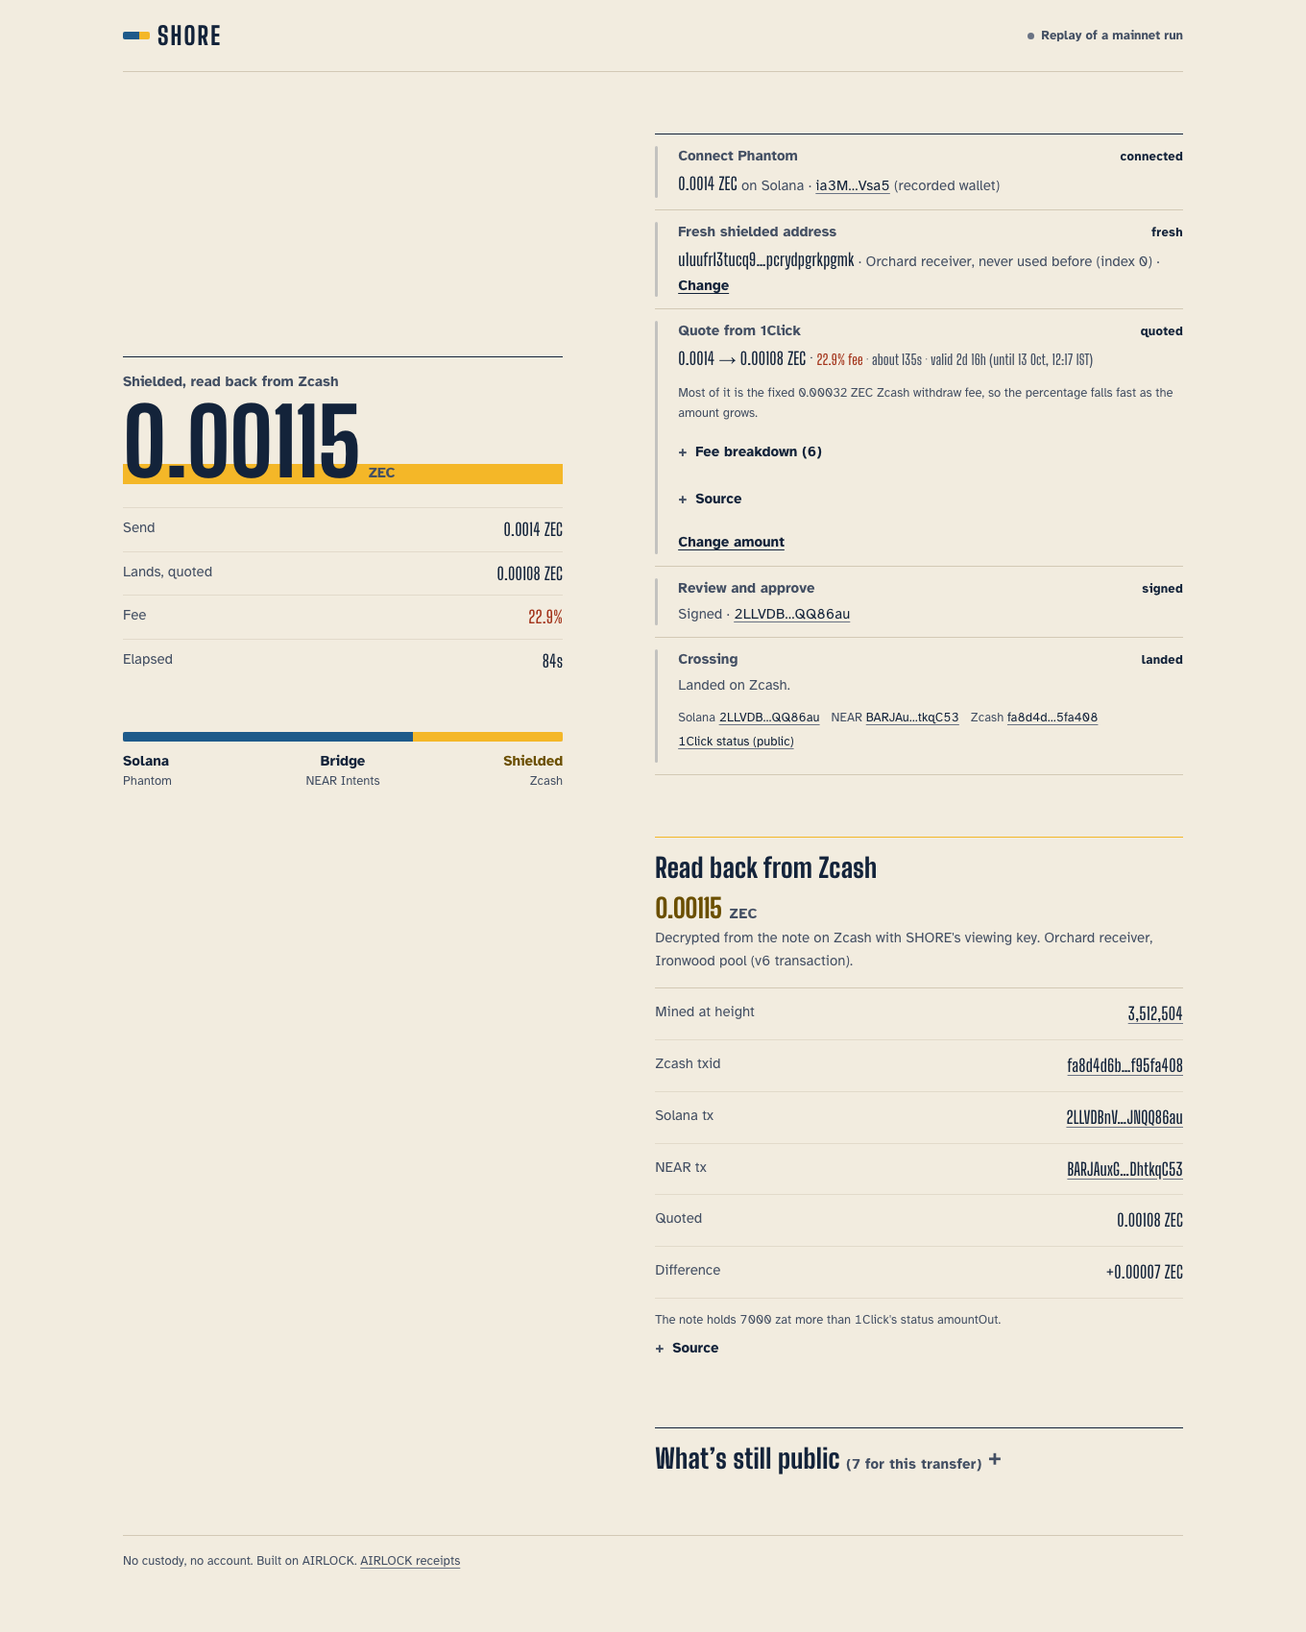
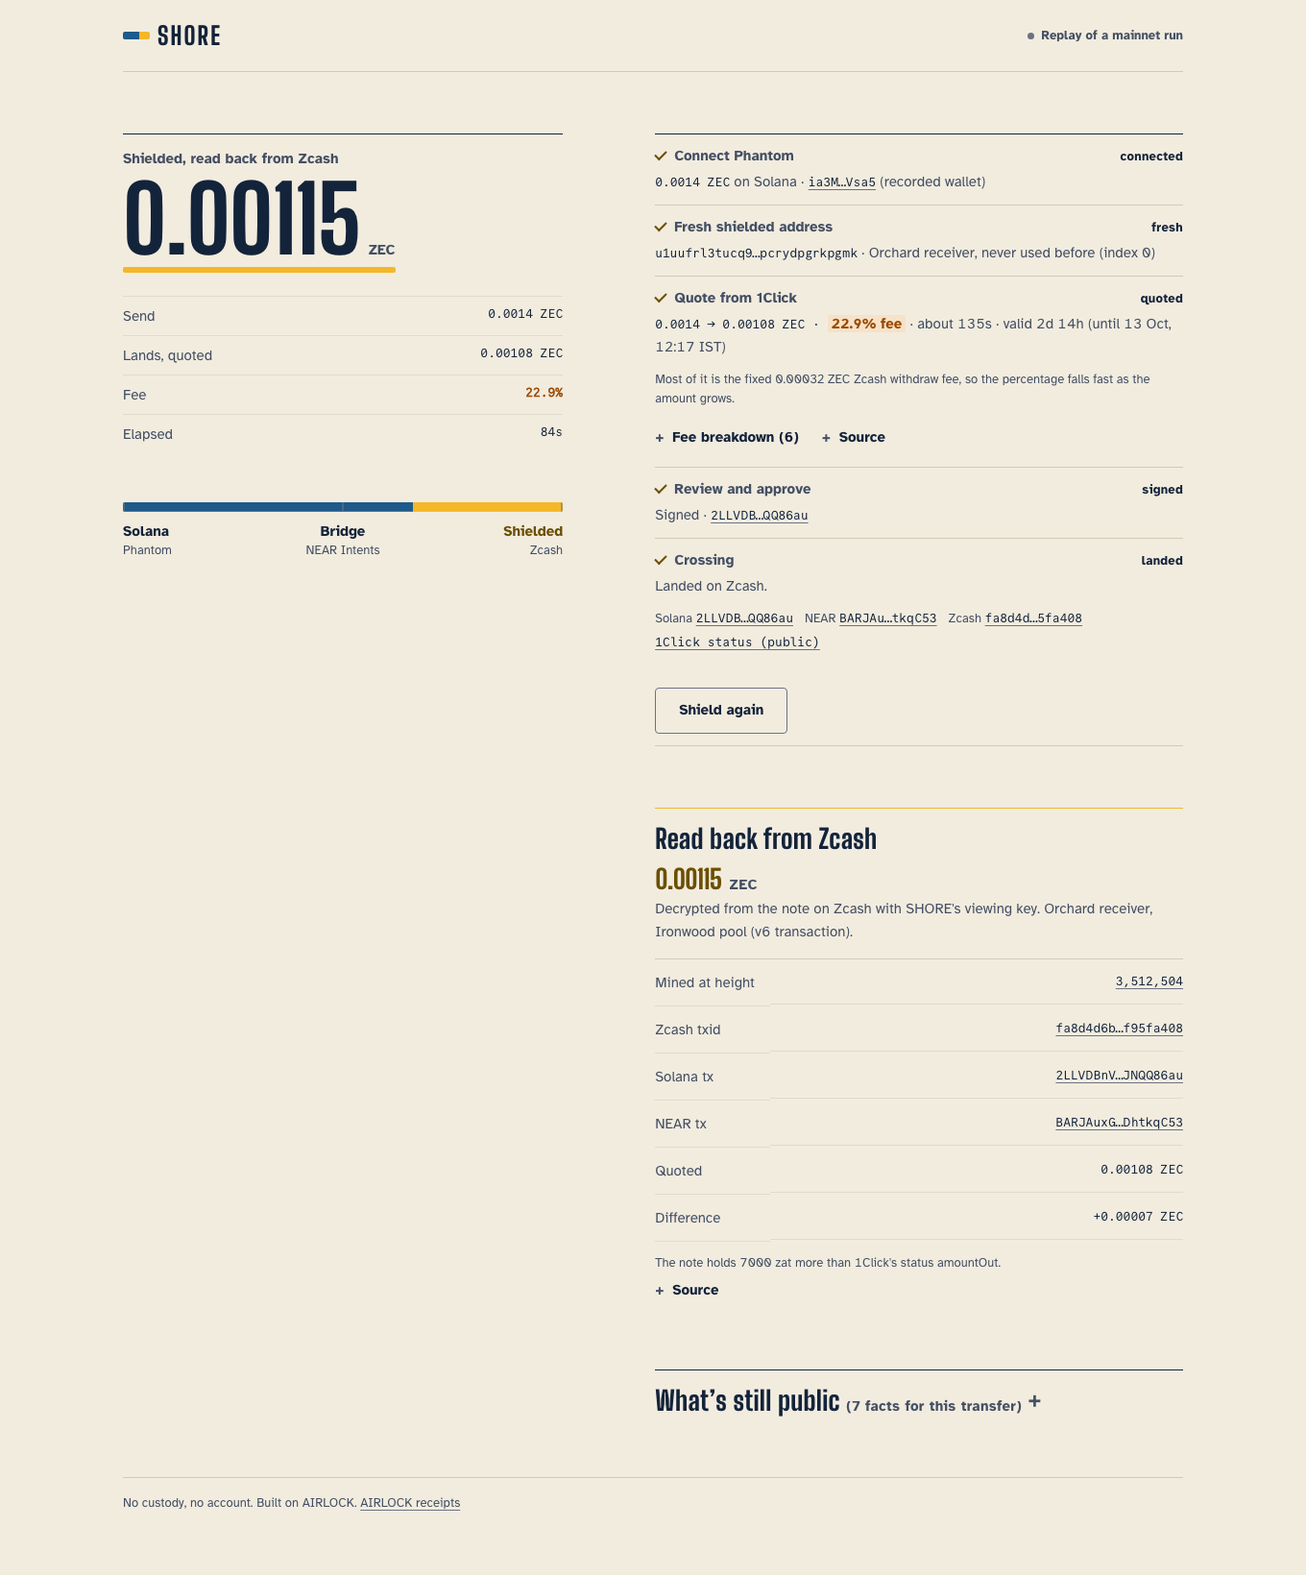
design round 4 (not used: UI frozen at r3 by kamal); kept for reference

diff --git a/web/shore/shore.css b/web/shore/shore.css
@@ -6,12 +6,14 @@
    gold where the ZEC is shielded, and the wordmark carries the same band. One radius: 4px. */
 @font-face{font-family:"Big Shoulders Display";font-weight:700;font-display:swap;src:url("../fonts/big-shoulders-display-latin-600-normal.woff2") format("woff2")}
 @font-face{font-family:"Big Shoulders Display";font-weight:800;font-display:swap;src:url("../fonts/big-shoulders-display-latin-800-normal.woff2") format("woff2")}
+@font-face{font-family:"Commit Mono";font-weight:400;font-display:swap;src:url("../fonts/commit-mono-400.woff2") format("woff2")}
 @font-face{font-family:"Atkinson Hyperlegible";font-weight:400;font-display:swap;src:url("../fonts/atkinson-hyperlegible-latin-400-normal.woff2") format("woff2")}
 @font-face{font-family:"Atkinson Hyperlegible";font-weight:700;font-display:swap;src:url("../fonts/atkinson-hyperlegible-latin-700-normal.woff2") format("woff2")}
 
 :root{
   --paper:#F2ECDF; --white:#FBF8F1; --ink:#13233A; --ink-2:#434F63; --ink-3:#6A7384; --rule:#D3C9B5; --rule-2:#E2DACA;
-  --sea:#1E5A8A; --gold:#F4B728; --gold-ink:#6B4F00; --warn:#A3341B;
+  --sea:#1E5A8A; --gold:#F4B728; --gold-ink:#6B4F00; --warn:#A3341B; --cost:#9A4A00;
+  --fig:"Commit Mono",ui-monospace,Menlo,monospace;
   --tide:var(--gold-ink); --tide-ink:var(--ink); --tide-wash:#F7E6B8;
   --serif:"Big Shoulders Display","Arial Narrow",sans-serif;
   --sans:"Atkinson Hyperlegible",ui-sans-serif,system-ui,sans-serif;
@@ -66,7 +68,8 @@ a:hover{text-decoration-color:var(--ink)}
 .lk{font:700 var(--t-s)/1.3 var(--sans);color:var(--ink-2)}
 .hero{font:800 96px/.92 var(--serif);letter-spacing:-.01em;margin-top:var(--s2);font-variant-numeric:tabular-nums lining-nums}
 .hero small{font:700 var(--t-s)/1 var(--sans);letter-spacing:0;margin-left:var(--s2);color:var(--ink-2)}
-.hero[data-tone="shielded"]{color:var(--ink);box-shadow:inset 0 -.22em 0 var(--gold)}
+.hero[data-tone="shielded"]{color:var(--ink)}
+.hero[data-tone="shielded"]::after{content:"";display:block;height:6px;margin-top:6px;border-radius:2px;background:var(--gold)}
 .lrows{margin-top:var(--s5);display:grid;grid-template-columns:auto 1fr;font-size:var(--t-s)}
 .lrows dt,.lrows dd{padding:var(--s2) 0;border-top:1px solid var(--rule-2)}
 .lrows dt{color:var(--ink-2)}
@@ -78,19 +81,18 @@ a:hover{text-decoration-color:var(--ink)}
 main{margin-top:var(--s7);display:flex;flex-direction:column;gap:var(--s8);min-width:0}
 main:focus{outline:none}
 .steps{border-top:1px solid var(--ink)}
-.step{position:relative;padding:var(--s5) 0 var(--s5) var(--s5);border-bottom:1px solid var(--rule)}
-.step::before{content:"";position:absolute;left:0;top:var(--s5);bottom:var(--s5);width:3px;border-radius:2px;background:transparent}
-.step[data-state="active"]::before{background:var(--sea)}
-.step[data-state="done"]::before{background:var(--ink-3);opacity:.35}
+.step{position:relative;padding:var(--s5) 0;border-bottom:1px solid var(--rule)}
+.step::before{content:none}
+.step[data-state="active"] h2{font-weight:700;color:var(--ink)}
+.step[data-state="done"] h2::before{content:"";display:inline-block;width:12px;height:7px;margin:0 var(--s2) 3px 0;border-left:2px solid var(--gold-ink);border-bottom:2px solid var(--gold-ink);transform:rotate(-45deg)}
 .step header{display:flex;align-items:baseline;justify-content:space-between;gap:var(--s3);min-height:28px}
 .step h2{font:700 var(--t-m)/1.4 var(--sans)}
 .hint{margin-top:var(--s1);font-size:var(--t-s);color:var(--ink-2);max-width:52ch}
-.step[data-state="locked"] h2{color:var(--ink-2)}
-.step{transition:padding .2s var(--ease)}
+.step[data-state="locked"] h2{color:var(--ink-2);font-weight:400}
+
 .step[data-state="locked"] .body{display:none}
 .step[data-state="done"] .hint{display:none}
 .step[data-state="done"]{padding-block:var(--s3)}
-.step[data-state="done"]::before{top:var(--s3);bottom:var(--s3)}
 .step[data-state="done"] h2{font-size:var(--t-s);color:var(--ink-2)}
 .step[data-state="done"] header{min-height:0}
 .step[data-state="done"] .body{margin-top:var(--s1)}
@@ -221,7 +223,7 @@ label.f{display:block}
   .crossing[data-live] .strip-now{display:flex;align-items:baseline;justify-content:space-between;gap:var(--s3);margin-top:var(--s2)}
   .strip-now span{font-size:var(--t-xs);color:var(--ink-2)}
   .strip-now b{font:800 var(--t-l)/1 var(--serif);font-variant-numeric:tabular-nums}
-  .strip-now[data-tone="shielded"] b{box-shadow:inset 0 -.25em 0 var(--gold)}
+  .strip-now[data-tone="shielded"] b{color:var(--gold-ink)}
   main{order:3;margin-top:var(--s5)}
   .foot{order:5}
   .mode{white-space:nowrap;font-size:12px}
@@ -231,8 +233,31 @@ label.f{display:block}
 }
 @media (max-width:959px){.steps{border-top:0}}
 
-/* figures: the signage face, never the reading face's dotted zero */
-.lrows dd,.receipt .val,.kv dd,.qmini,.clock,.qsec{font-family:var(--serif);font-weight:700;letter-spacing:.01em}
-.lrows dd,.kv dd,.receipt .val,.qmini{font-size:18px}
+/* figures: one zero style. Small amounts, addresses and hashes in Commit Mono (plain zero, tabular);
+   the condensed signage face only for the big display numbers (hero, phone strip, read-back, phone quote pair). */
+.lrows dd,.receipt .val,.kv dd,.qmini,.linksrow a,.receipt a{font-family:var(--fig);font-weight:400;font-size:var(--t-xs);letter-spacing:0}
+.qsec{font-family:var(--sans)}
+.clock{font-family:var(--fig);font-weight:400}
 @media (max-width:959px){.crossing[data-live]{margin-top:0}}
-.hero[data-tone="shielded"]{display:table;padding-right:var(--s1)}
+.hero[data-tone="shielded"]{display:table}
+
+.qctl{display:flex;flex-wrap:wrap;align-items:baseline;gap:0 var(--s5)}
+.qctl details[open]{flex-basis:100%}
+.qctl .linkbtn{padding:var(--s2) 0}
+html[data-signed] .chg{display:none}
+.again{margin-top:var(--s3)}
+.cost{color:var(--cost)!important;font-weight:700}
+.qsec .cost{background:#F6E2C8;padding:0 var(--s1);border-radius:2px}
+/* stop marks on the band: Solana, Bridge, Shielded */
+.tide::after{content:"";position:absolute;inset:0;background:linear-gradient(90deg,var(--ink-3) 0 2px,transparent 2px calc(50% - 1px),var(--ink-3) calc(50% - 1px) calc(50% + 1px),transparent calc(50% + 1px) calc(100% - 2px),var(--ink-3) calc(100% - 2px));opacity:.55;pointer-events:none}
+@media (max-width:959px){
+  .readback .amount{display:none}
+  .crossing{padding-block:var(--s2) var(--s1)}
+  .crossing[data-live] .node{padding-top:var(--s4)}
+  .crossing[data-live] .nl{font-size:var(--t-xs)}
+  .crossing[data-live] .strip-now{margin-top:0}
+  .strip-now b{font-size:22px}
+}
+@media (max-width:959px){.crossing[data-live] .path{display:none}.crossing[data-live] .tide{position:relative;left:auto;right:auto;top:auto;height:8px}.crossing[data-live] .strip-now{margin-top:var(--s2)}}
+.kv dt,.kv dd{display:flex;align-items:center;min-height:44px}
+.kv dd{justify-content:flex-end}

diff --git a/web/shore/shore.js b/web/shore/shore.js
@@ -64,7 +64,7 @@ function reopen(id, render) {
   if (id === "s-address") { delete L.send; delete L.lands; delete L.fee; ledger(null, null, null, { hero: ["Balance on Solana", [zec(S.balance), h("small", {}, "ZEC")]] }); }
   setStep(id, "active"); render();
 }
-const change = (id, render) => [" · ", h("button", { class: "linkbtn", type: "button", onclick: () => reopen(id, render) }, "Change")];
+const change = (id, render) => [h("span", { class: "chg" }, " · ", h("button", { class: "linkbtn", type: "button", onclick: () => reopen(id, render) }, "Change"))];
 const IST = (iso) => new Date(iso).toLocaleString("en-GB", { timeZone: "Asia/Kolkata", day: "numeric", month: "short", hour: "2-digit", minute: "2-digit", hour12: false }) + " IST";
 function countdown(iso) {
   const ms = new Date(iso) - Date.now();
@@ -193,16 +193,16 @@ function renderQuote(out) {
   put(step, h("div", { "data-testid": "quote", class: "qt" },
     h("p", { class: "qpair" }, h("span", {}, h("small", {}, "You send"), `${zec(q.amountIn)} ZEC`), h("i", { "aria-hidden": "true" }, "→"),
       h("span", {}, h("small", {}, "Lands, quoted"), `${zec(q.amountOut)} ZEC`)),
-    h("p", { class: "qsec" }, h("span", { class: "qmini" }, `${zec(q.amountIn)} → ${zec(q.amountOut)} ZEC · `), h("span", { class: bps > 1000 ? "warn" : "" }, `${pct}% fee`), ` · about ${q.timeEstimateSecs}s · `, valid),
+    h("p", { class: "qsec" }, h("span", { class: "qmini" }, `${zec(q.amountIn)} → ${zec(q.amountOut)} ZEC · `), h("span", { class: bps > 1000 ? "cost" : "" }, `${pct}% fee`), ` · about ${q.timeEstimateSecs}s · `, valid),
     bps > 1000 ? h("p", { class: "help", "data-testid": "fee-honest" }, `Most of it is the fixed ${zec(q.fees.withdrawFee)} ZEC Zcash withdraw fee, so the percentage falls fast as the amount grows.`) : null,
-    h("details", { class: "fold" }, h("summary", {}, "Fee breakdown (6)"),
+    h("div", { class: "qctl" }, h("details", { class: "fold" }, h("summary", {}, "Fee breakdown (6)"),
       kv([["Worst case after slippage", `${zec(q.minAmountOut)} ZEC`], ["Zcash withdraw fee", `${zec(q.fees.withdrawFee)} ZEC`], ["Refund fee if it fails", `${zec(q.fees.refundFee)} ZEC`],
         ["Total cost", `${pct}% of what you send`], ["1Click minimum", `${zec(q.minAmount)} ZEC`], ["Quote expires", IST(q.deadline)]])),
     MODE === "replay" ? h("details", { class: "fold" }, h("summary", {}, "Source"), h("p", { class: "help" }, "Recorded 1Click quote, correlation 9136ee09, file shore-funded-quote-v2.json.")) : null,
-    h("p", {}, h("button", { class: "linkbtn", type: "button", onclick: () => reopen("s-quote", renderQuoteForm) }, "Change amount"))));
+    h("button", { class: "linkbtn chg", type: "button", onclick: () => reopen("s-quote", renderQuoteForm) }, "Change amount"))));
   setStep("s-quote", "done", "quoted");
   ledger("send", "Send", `${zec(q.amountIn)} ZEC`);
-  ledger("fee", "Fee", h("span", { class: bps > 1000 ? "warn" : "" }, `${pct}%`));
+  ledger("fee", "Fee", h("span", { class: bps > 1000 ? "cost" : "" }, `${pct}%`));
   ledger("lands", "Lands, quoted", `${zec(q.amountOut)} ZEC`, { hero: ["Lands in the shielded pool, quoted", [zec(q.amountOut), h("small", {}, "ZEC")]], strip: ["Lands, quoted", `${zec(q.amountOut)} ZEC`] });
   setStep("s-approve", "active");
   renderApprove();
@@ -220,6 +220,7 @@ function renderApprove() {
     try {
       if (LIVE) S.sig = await sendTransfer(q);
       else { put(msg, h("p", { class: "help" }, "Approved (simulated, nothing is sent).")); await sleep(600); S.sig = (await api.loadReplay()).solana_tx; }
+      document.documentElement.dataset.signed = "";
       if (S.session.source === "own") markUsed(S.session.recipient);
       api.notifyTx(S.session.id, S.sig);
       api.startClock();
@@ -291,6 +292,7 @@ async function land() {
         ledger("elapsed", "Elapsed", clock.textContent);
         setCrossing("landed");
         put(now, "Landed on Zcash."); now.className = "receipt";
+        b.append(h("p", { class: "again" }, h("a", { class: "btn ghost", href: location.pathname + location.search }, "Shield again")));
         setStep("s-land", "done", "landed");
         readbackLoop(); exposureLoad(); return;
       }
@@ -340,13 +342,13 @@ const DEFAULT_EXPOSED = [
   ["What is private afterwards:", "spends you make later from the note. Nobody outside your wallet can see those."],
 ];
 function renderExposureDefault() {
-  put($("pub-n"), `${DEFAULT_EXPOSED.length} in general`);
+  put($("pub-n"), `${DEFAULT_EXPOSED.length} facts, before you send`);
   put($("exposed"), DEFAULT_EXPOSED.map(([b, t], i) => h("li", {}, i < 3 ? h("b", {}, b) : h("strong", {}, b), " ", t)));
 }
 async function exposureLoad() {
   try {
     const x = (S.exposure = await api.exposure(S.session.id, { sender: S.wallet.address, deposit: S.quote.depositAddress, recipient: S.session.recipient }));
-    put($("pub-n"), `${x.rows.length} for this transfer`);
+    put($("pub-n"), `${x.rows.length} facts for this transfer`);
     put($("exposed"), x.rows.map((r) => h("li", { "data-exposed": String(r.exposed), "data-who": /anyone/i.test(r.whoCanSee) ? "anyone" : /nobody/i.test(r.whoCanSee) ? "nobody" : "some" },
       r.exposed ? h("b", {}, r.what) : h("strong", {}, r.what), r.value ? h("span", { class: "help" }, /^\d+$/.test(r.value) ? `${zec(r.value)} ZEC` : short(r.value, 10)) : null,
       h("span", { class: "help" + (/anyone/i.test(r.whoCanSee) ? " warn" : "") }, `${r.exposed ? "Readable by" : "Visible to"}: ${r.whoCanSee}`))),

diff --git a/web/tests/shots.spec.js b/web/tests/shots.spec.js
@@ -13,7 +13,7 @@ test("screens", async ({ page }, info) => {
   await page.getByTestId("approve").click();
   await page.waitForTimeout(1800);
   await page.screenshot({ path: `${dir}-3-landing.png`, fullPage: true });
-  await page.getByTestId("rb-amount").waitFor({ timeout: 30000 });
+  await page.locator("#readback[data-landed]").waitFor({ timeout: 30000 });
   await page.waitForTimeout(500);
   await page.screenshot({ path: `${dir}-4-readback.png`, fullPage: true });
 });

diff --git a/docs/design/CRITIQUE-fresh-r3.md b/docs/design/CRITIQUE-fresh-r3.md
@@ -1,0 +1,86 @@
+# CRITIQUE · SHORE · round 3 ("Harbor board") · critic=fresh
+
+critic: fresh:grokbot-knowledgework (independent; builder CRITIQUE.md entries and DESIGN.md NOT read before scoring)
+date: 2026-10-10 19:32 IST
+rubric: demo-judge 10 axes, 0-10. Pass bar: average >= 8.0 AND every axis >= 7.
+evidence: docs/design/r3-*.png, plus my own Playwright run of https://design-preview.shore-zec.pages.dev/shore/ (replay) at 1440x900 and
+390x844: idle, connected, address, quote, signed, crossing, landed, full page, disclosure, a ?speed=3 crossing sampled every 6s, and the
+expanded "What's still public" at landed. Shots are in docs/design/fresh-r3-live/. Computed styles, contrast and shore.css/shore.js were checked.
+Identity measured: Big Shoulders Display (display + numerals) / Atkinson Hyperlegible (body). Paper #F2ECDF, ink #13233A, sea #1E5A8A,
+gold #F4B728, gold-ink #6B4F00, warn rgb(163,52,27). Contrast on paper: ink 13.4, sea 6.2, gold-ink 6.5, warn 5.8 (all AA).
+
+## Round-2 defect check
+| r2 defect | r3 status |
+|---|---|
+| Mobile: landed number hidden under the sticky strip | FIXED. scrollIntoView block:"center" plus #readback scroll-margin-top 140px. 0.00115 is fully visible (m-6-landed.png). |
+| Mobile strip shows the stale "84s last mainnet run" during the flow | FIXED. Strip reads "Lands, quoted 0.00108 ZEC", then "Crossing, elapsed 25s", then "Shielded 0.00115 ZEC". |
+| 0.00115 four times / 84s four times | MOSTLY FIXED. Desktop: one 96px hero; the read-back card is demoted to 28px; Elapsed appears only in the ledger. Mobile still shows 0.00115 twice in one viewport (strip 28px + read-back 64px). |
+| No owned visual signature, generic serif/sage/teal kit | FIXED. The tide band (sea leg → gold Shielded) is reused as the wordmark mark. Circled step numerals are gone. Condensed board type, cream/navy/Zcash-gold. |
+| Step swaps instant, entrance replays | PARTLY. `rise` now only runs before html.booted, and receipts `settle` in 200ms. But .step animates `padding` (shore.css:89, slop gate 14), and steps still don't collapse smoothly. |
+| No way to change address or amount | FIXED, but over-applied (see 4). |
+| "anyone" vs "nobody" rows untoned | FIXED. Red dot and red text for "Readable by: anyone"; gold for "Visible to: nobody" (d-9-public.png). |
+| Expiry in UTC | FIXED. "valid 2d 16h (until 13 Oct, 12:17 IST)". |
+| What's still public count jumps 4 → 7 | FIXED with labels: "(4 in general)" then "(7 for this transfer)". The "in general" wording is clumsy. |
+
+## Scores
+SCORES: data-as-hero 8, density 8, liveness 8, interaction 7, disclosure 8, color 8, motion 7, mobile 8, tells 7, trust 8
+AVERAGE: 7.7   MIN: 7   VERDICT: FAIL (every axis now >= 7, but the average is 0.3 short of 8.0)
+
+### 1. Data as hero: 8 (r2: 7)
+The current number is a 96px condensed numeral at every stage (quote 0.00108, crossing 25s → 84s, landed 0.00115 on a gold band). This is the right hierarchy now.
+Defects:
+- Landed ledger: the gold band sits behind the lower third of the numerals, and the "ZEC" unit is printed inside the band. The baseline and the band collide, so it reads as a highlighter stroke, not a deliberate plinth.
+- Mobile landed: 0.00115 at 28px in the strip and 64px directly below in the same viewport.
+FIX: put the band fully below the numerals (4-6px gap, unit outside or on the band's right end). On mobile, hide the read-back hero number while the strip already shows it, or vice versa.
+
+### 2. Density and hierarchy: 8 (r2: 7)
+Receipts are compact and the ledger owns the numbers. Residual: the quote receipt stacks "+ Fee breakdown (6)", "+ Source" and "Change amount" with about 35px between each (d-3-quote.png), so the completed step ends up taller than the active one.
+FIX: put the three secondary controls on one inline row ("Fee breakdown (6) · Source · Change amount").
+
+### 3. Liveness and provenance: 8 (r2: 8)
+Good: IST expiry and countdown, Source disclosure, mined height, difference line.
+Residual: at idle and quote the tide band is a flat empty beige bar with no nodes, which reads as a disabled or skeleton progress bar. The idle stat "84s" is 18px condensed with "last mainnet run" in 13px.
+FIX: give the empty band its three stop ticks at idle, and show the last run as a ghost fill ("last run 84s").
+
+### 4. Interaction: 7 (r2: 8)
+NEW DEFECT: "Change" (address) and "Change amount" stay visible and enabled after "Review and approve: signed" and after "Crossing: landed" (buttons@end = "Change ; Change amount"; d-6-landed.png). Offering to change the amount of a transfer that has already been signed and has landed is misleading on a money surface.
+Good: a 2px sea focus-visible ring on summaries, 48px targets, receipts instead of dead buttons.
+FIX: remove the Change links once Approve is signed. After landed, offer one "Shield again" action instead.
+
+### 5. Progressive disclosure: 8 (r2: 8)
+Fine. "4 in general" should read "4 for every transfer".
+
+### 6. Meaningful color: 8 (r2: 7)
+Color now has jobs: sea = the Solana-side leg, gold = shielded / Zcash, red = cost and exposure, navy = action. The Zcash gold finally gives the page a brand cue.
+Residual: red is used for both "the fee is high" and "this is publicly readable", which are different kinds of warning. Acceptable, but a judge may read the 22.9% fee as an error.
+
+### 7. Motion: 7 (r2: 7)
+The band fills with clip-path against elapsed time (d-slow-0..3), receipts settle, the count-up runs, and reduced-motion is honoured.
+Defects: .step { transition: padding .2s } animates a layout property (hallmark slop gate 14), and completion is still a jump in height.
+FIX: animate only opacity/transform, or use grid-template-rows 0fr→1fr for the collapse.
+
+### 8. Mobile: 8 (r2: 6)
+The strip is now the live number and the payoff lands fully visible. Residual: the duplicate 0.00115 (see 1), and the strip at 104px takes 12% of an 844px viewport for the whole flow.
+FIX: shrink the strip to a single 56-64px row (band + one number) once scrolled.
+
+### 9. Machine-made tells: 7 (r2: 6) — reads as designed, with a few kit fingerprints left
+The new identity mostly works: condensed board type, navy/cream/gold and the tide band read like harbour signage, not a generator default. Remaining fingerprints:
+- Every step carries a vertical left rule (3px sea on active, 2px gray on done; r3-quote-1440). That is the side-stripe card pattern (hallmark slop gate 5) applied to five rows.
+- Two numeral systems on one screen. Amounts are in Big Shoulders (plain zero) in the ledger and receipts, but in Atkinson (slashed zero) in body and disclosures: "0.0014 ZEC" appears in both styles on d-9-public.png. Also "115,000", "7000 zat", "index 0", "/v0/status".
+- Legibility, not just style: addresses and hashes (u1uufrl3tucq9…, ia3MLukF…3EL5Vsa5, DMDdCzum…ZEk9SjbM) are set in the condensed display face, where l / I / 1 are hardest to tell apart. These are exactly the strings a user verifies, and the page ships Atkinson Hyperlegible, which exists for this case.
+FIX: drop the left rules (use the step title weight and a gold tick for state). Set all addresses and hashes in Atkinson with tabular figures (or a mono). Keep Big Shoulders for display amounts only, and choose one zero style for amounts everywhere.
+
+### 10. Would a professional trust it with size: 8 (r2: 7)
+Yes, mostly. Honest, receipted, branded, and the payoff is unmistakable. The post-sign "Change amount" is the one thing that would make a careful user hesitate.
+
+## Is it still AI-generated-looking?
+Largely no. "Harbor board" has a point of view and a signature (the tide band, the mark, the gold landing) that belongs to this product. What remains are small kit tells (left rules on every step, the mixed numeral styles, display type used for hashes), not a template.
+
+## Remaining fixes (leverage order; 1-4 should clear 8.0)
+1. Remove "Change" / "Change amount" after the transfer is signed; offer "Shield again" after landed. (4, 10)
+2. Addresses and hashes in Atkinson (or a mono), one zero style for all amounts, Big Shoulders only for display numbers. (9, 3)
+3. Drop the vertical left rule on every step; show state with title weight and a tick. (9)
+4. Seat the gold band under the landed numerals instead of through them. Remove the duplicate 0.00115 on mobile. (1, 8)
+5. Inline the quote receipt's three secondary links on one row. Animate the collapse without the padding transition. Give the idle band its stop ticks. Reword "4 in general". (2, 7, 3, 5)
+
+ROUND: 7.7 min=7 round=3 critic=fresh:grokbot-knowledgework review=NONE
